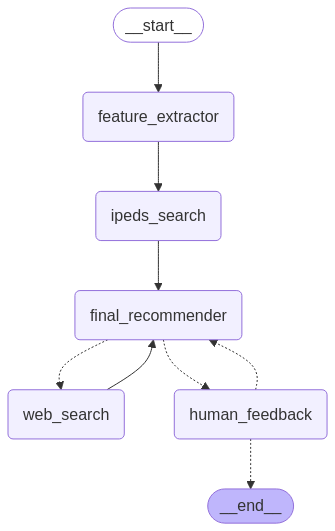
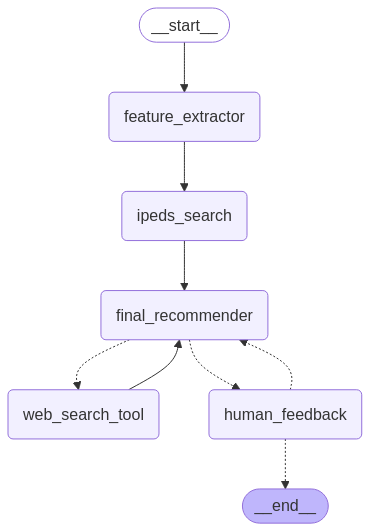
updating names

diff --git a/langchain_app/nodes/final_rec/base.py b/langchain_app/nodes/final_rec/base.py
@@ -14,7 +14,7 @@ from models.state import State, NodeName
 
 
 def create_final_recommender() -> Callable[
-    [State], Command[Literal[NodeName.WEB_SEARCH, NodeName.HUMAN_FEEDBACK]]
+    [State], Command[Literal[NodeName.WEB_SEARCH_TOOL, NodeName.HUMAN_FEEDBACK]]
 ]:
     """Creates a node that makes the final recommendation.
     
@@ -34,7 +34,7 @@ def create_final_recommender() -> Callable[
     llm_with_tools = llm.bind_tools([web_search])
     runnnable = prompt | llm_with_tools
     
-    def final_recommender(state: State) -> Command[Literal[NodeName.WEB_SEARCH, NodeName.HUMAN_FEEDBACK]]:
+    def final_recommender(state: State) -> Command[Literal[NodeName.WEB_SEARCH_TOOL, NodeName.HUMAN_FEEDBACK]]:
         """Generate final recommendation based on all analyses and feedback history."""
         # Extract any web search results from previous messages
         web_search_results = []
@@ -64,7 +64,7 @@ def create_final_recommender() -> Callable[
                 print(f"Found tool calls - directing to WEB_SEARCH node")
                 # We found tool calls, go to web search
                 updated_state = {"messages": state.messages + [response]}
-                return Command(update=updated_state, goto=NodeName.WEB_SEARCH)
+                return Command(update=updated_state, goto=NodeName.WEB_SEARCH_TOOL)
         
         # No tool calls, proceed to human feedback
         print(f"No tool calls found - proceeding to HUMAN_FEEDBACK node")

diff --git a/langchain_app/school_matcher_graph.py b/langchain_app/school_matcher_graph.py
@@ -38,7 +38,7 @@ def create_school_matcher_graph(vector_store: CollegeVectorStore):
     # Add nodes
     graph_builder.add_node(NodeName.FEATURE_EXTRACTOR, create_feature_extractor(llm, vector_store))
     graph_builder.add_node(NodeName.IPEDS_SEARCH, create_ipeds_semantic_search(vector_store, llm))
-    graph_builder.add_node(NodeName.WEB_SEARCH, create_web_search_tool_node())
+    graph_builder.add_node(NodeName.WEB_SEARCH_TOOL, create_web_search_tool_node())
     
     # Add nodes with edges
     graph_builder.add_node(NodeName.FINAL_RECOMMENDER, create_final_recommender())
@@ -47,7 +47,7 @@ def create_school_matcher_graph(vector_store: CollegeVectorStore):
     # Add edges
     graph_builder.add_edge(NodeName.FEATURE_EXTRACTOR, NodeName.IPEDS_SEARCH)
     graph_builder.add_edge(NodeName.IPEDS_SEARCH, NodeName.FINAL_RECOMMENDER)
-    graph_builder.add_edge(NodeName.WEB_SEARCH, NodeName.FINAL_RECOMMENDER)
+    graph_builder.add_edge(NodeName.WEB_SEARCH_TOOL, NodeName.FINAL_RECOMMENDER)
     
     # Set the entry point
     graph_builder.set_entry_point(NodeName.FEATURE_EXTRACTOR)

diff --git a/models/state.py b/models/state.py
@@ -10,7 +10,7 @@ from models import VectorDataBaseResults
 class NodeName(str, Enum):
     FINAL_RECOMMENDER = "final_recommender"
     FEATURE_EXTRACTOR = "feature_extractor"
-    WEB_SEARCH = "web_search"
+    WEB_SEARCH_TOOL = "web_search_tool"
     WIKIPEDIA_SEARCH = "wikipedia_search"
     IPEDS_SEARCH = "ipeds_search"
     RECOMMENDATION_FORMATTER = "recommendation_formatter"

diff --git a/langchain_app/nodes/final_rec/prompt.py b/langchain_app/nodes/final_rec/prompt.py
@@ -27,7 +27,7 @@ Your final recommendation report should include:
 5. Closing Remarks
    - Final recommendation
    - Critical success factors
-   - How this addresses all feedback received
+   - How this addresses all feedback received, being sure to include any relevant tool call results
 
 Make sure to:
 1. Consider ALL feedback received when making your recommendation

diff --git a/README.md b/README.md
@@ -4,7 +4,7 @@ An AI-powered tool for identifying potential merger and acquisition (M&A) partne
 
 ## Overview
 
-SchoolMatch AI uses advanced language models and semantic search to analyze potential M&A partners for educational institutions. The system follows a structured workflow:
+The system follows a structured workflow:
 
 1. Feature Extraction
    - Analyzes input institution details
@@ -30,9 +30,11 @@ SchoolMatch AI uses advanced language models and semantic search to analyze pote
      - Risk assessments
      - Next steps
 
-4. Web Search
-   - Conducts a search of the web using Tavily
-   - Gives the LLM access to recent information found on the web
+4. Web Search (AvailableTool Call)
+   - The system can autonomously trigger web searches when it needs more data
+   - Uses Tavily API to search for recent and relevant information about educational institutions
+   - Integrates search results directly into the recommendation process
+   - Provides up to date information to the user
 
 5. Interactive Feedback
    - Collects user feedback on recommendations
@@ -160,27 +162,6 @@ To update the college data:
    - Get refined recommendations based on your input
 
 ## Key Features
-
-### Intelligent Tool Calling
-
-The SchoolMatch AI system incorporates an intelligent tool calling system that allows the LLMs to request additional information when needed:
-
-1. **Web Search Integration**
-   - The system can autonomously trigger web searches when it needs more data
-   - Uses Tavily API to search for recent and relevant information about educational institutions
-   - Integrates search results directly into the recommendation process
-
-2. **Dynamic Decision Pipeline**
-   - LLMs can determine when more information is needed
-   - Search requests are processed through a dedicated node in the LangGraph
-   - Results flow back into the recommendation process
-
-3. **Enhanced Data Accuracy**
-   - Provides up-to-date information not available in the static dataset
-   - Reduces hallucinations by grounding recommendations in real web data
-   - Improves the quality and relevance of merger recommendations
-
-This tool calling architecture enables a more dynamic and information-rich analysis, leading to better-informed M&A recommendations.
 
 ## Project Structure
 
